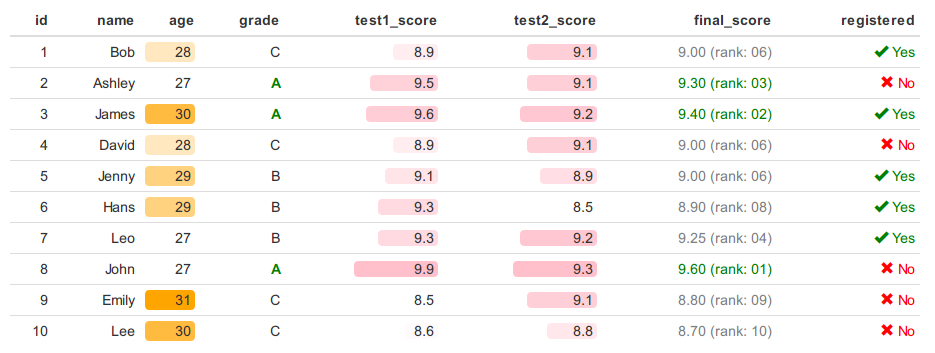
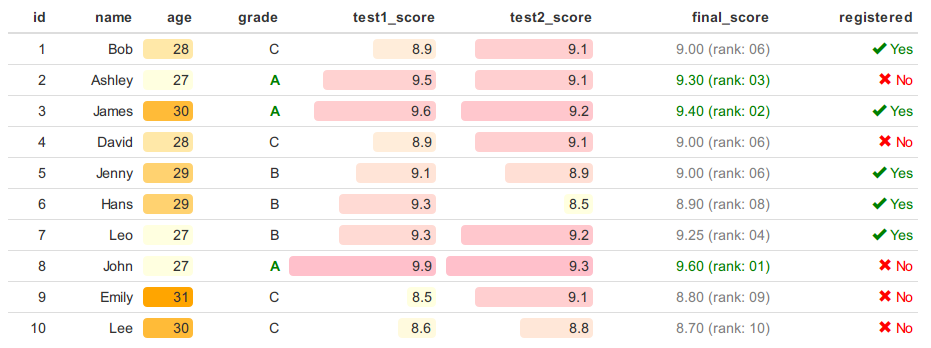
update readme and demo

diff --git a/README.md b/README.md
@@ -142,9 +142,10 @@ Formatted table with the following visualizations:
 library(formattable)
 score_bar <- formatter("span", 
   style = x ~ style(
+    display = "block",
     border.radius = "4px",
     padding.right = "4px",
-    padding.left = sprintf("%.0fpx", 6 + 54 * normalize(x)),
+    width = percent(normalize(x, 0.1, 0.8)),
     background = csscolor(gradient(x, "white", "pink"))
   ))
 
